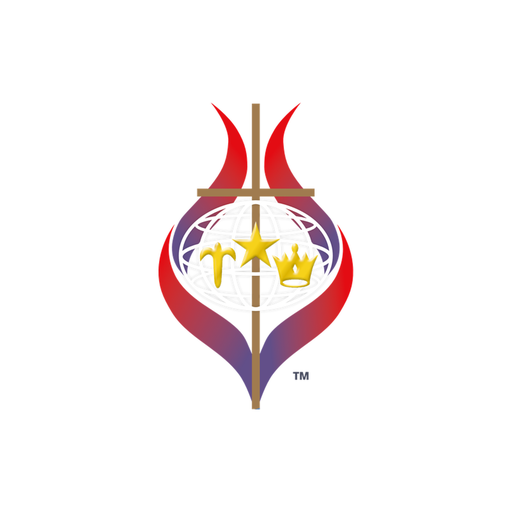
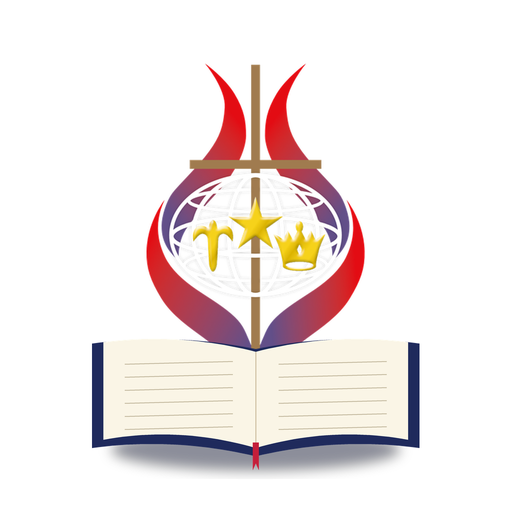
Ícono nuevo: Biblia abierta delante del emblema de la IDP
Claude-Session: https://claude.ai/code/session_01ARXXFB2p2QqkyGhXfj9V5J

Changed region(s): [[0.1562, 0.125, 0.8438, 0.9375]]

diff --git a/sw.js b/sw.js
@@ -1,5 +1,5 @@
 // Guarda la app en el celular para que funcione sin internet.
-var SHELL = "biblia-shell-v21";
+var SHELL = "biblia-shell-v22";
 var DATA = "biblia-data-v1";
 var FONTS = "biblia-fonts-v1";
 var SHELL_FILES = ["./", "index.html", "meta.json", "manifest.json", "icon-192.png", "icon-512.png", "icon-maskable-512.png", "apple-touch-icon.png", "logo-iglesia.png", "logo-emblema.png", "logo-emblema-claro.png", "qr-app.png"];
